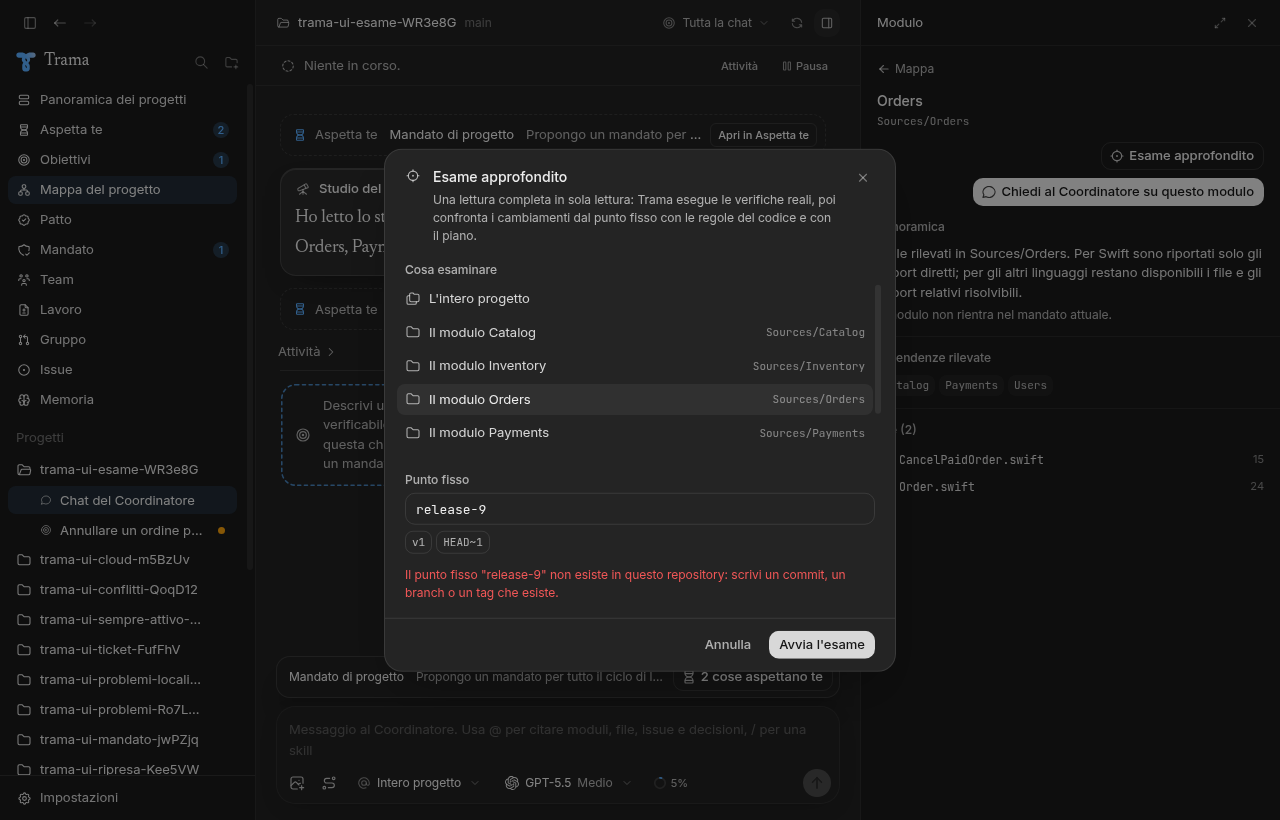
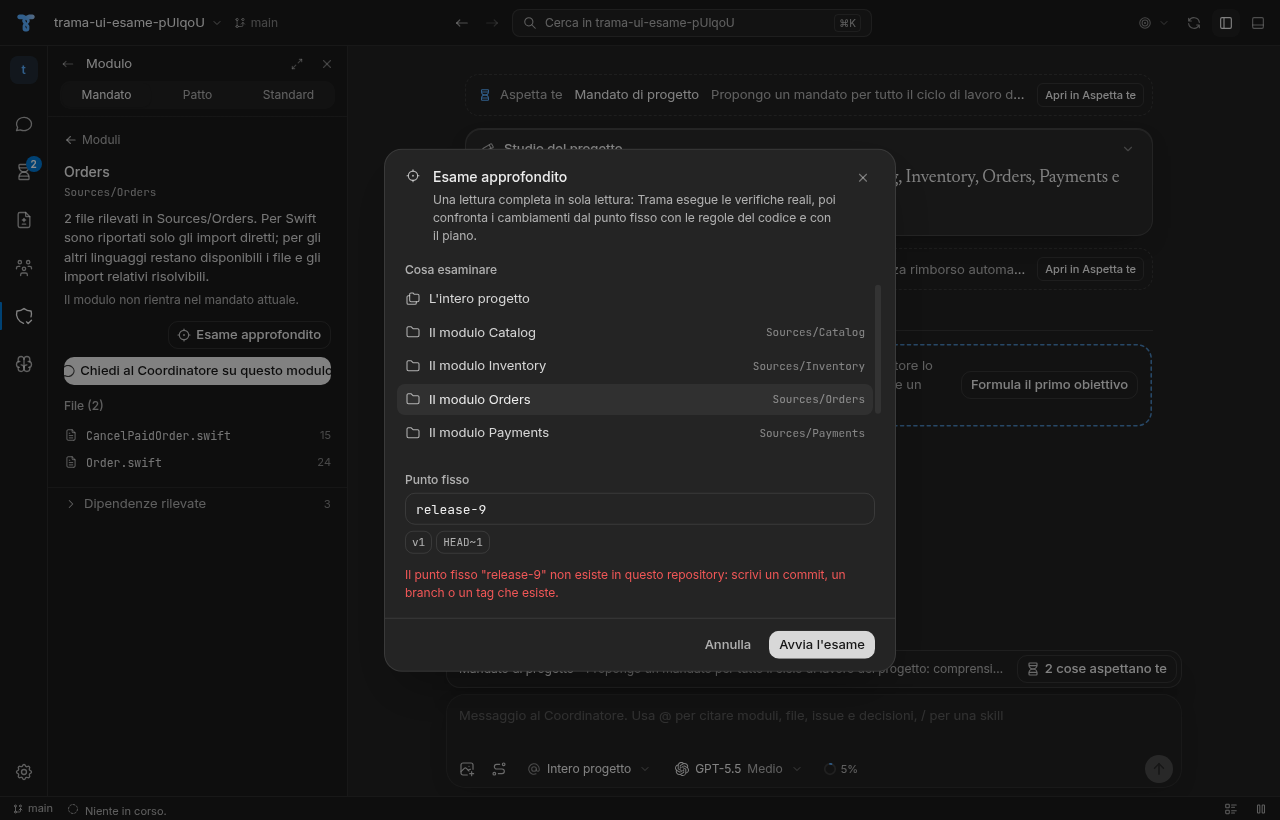
docs: refresh the focus mode screenshots inside the new window layout

diff --git a/docs/verifiche/f03-esame-a-tutto-schermo-2026-09-28.md b/docs/verifiche/f03-esame-a-tutto-schermo-2026-09-28.md
@@ -4,18 +4,18 @@ Controllo di #127 (specifica #124) sul branch `feature/issue-127-focus-mode-full
 
 ## Cosa cambia
 
-- Bersaglio e punto fisso: l'esame approfondito (la focus mode della specifica) si apre anche su un modulo o sull'intero progetto. La persona sceglie il bersaglio e scrive il punto fisso (un commit, un branch, un tag, `HEAD~5`); Trama propone i branch principali più indietro di HEAD, l'ultimo tag e qualche passo indietro. Si apre dalla Mappa ("Esame approfondito del progetto") e dalla pagina di un modulo ("Esame approfondito").
+- Bersaglio e punto fisso: l'esame approfondito (la focus mode della specifica) si apre anche su un modulo o sull'intero progetto. La persona sceglie il bersaglio e scrive il punto fisso (un commit, un branch, un tag, `HEAD~5`); Trama propone i branch principali più indietro di HEAD, l'ultimo tag e qualche passo indietro. Si apre da Regole > Mandato > Moduli ("Esame approfondito del progetto") e dalla pagina di un modulo ("Esame approfondito").
 - Passo 1 di `code-review` prima di tutto il resto: Trama risolve il punto fisso e cattura una volta `git diff <punto fisso>...HEAD`, limitato alla cartella del modulo. Un punto fisso che non esiste o un diff vuoto danno un errore chiaro nella finestra di scelta, prima di verifiche e assi. Il testo del punto fisso non può passare per un'opzione o un intervallo di git. I file sensibili restano fuori dal diff, come per un candidato.
 - Esame: le verifiche reali girano nella sandbox sul checkout del progetto, legate all'HEAD fissato (se arriva un nuovo commit l'esame si ferma e lo dice). Gli assi Standards e Spec ricevono la skill `code-review` originale e un binding di Trama per modulo o progetto, con percorso del modulo, commit e diff catturato. La Spec viene dalle issue che i messaggi dei commit citano (passo 2 della skill, prima fonte); senza una issue nota l'asse Spec si salta come dice la skill. La verifica dei rilievi (F02) funziona allo stesso modo sul checkout.
-- Vista a tutto schermo: l'esame occupa tutta la finestra, nello stile di vetro di Trama. Avanzamento a sinistra (punto fisso, verifiche reali, assi, verifica delle prove), rilievi al centro divisi per asse con il rapporto di ogni asse sotto, prova del rilievo scelto a destra (prova, come l'ha verificata Trama, cosa ha letto). Nell'intestazione "Notifiche in pausa" e le azioni a destra: "Esamina di nuovo", poi "Esci dall'esame" per ultima. Esc esce anche. Anche l'esame di un candidato si apre così; il rapporto resta riapribile nell'ispettore, con "Apri a tutto schermo".
+- Vista a tutto schermo: l'esame occupa tutta l'area dell'editor, al posto della chat, nello stile di vetro di Trama; barra delle attività, barra laterale e barra di stato restano (#350). Avanzamento a sinistra (punto fisso, verifiche reali, assi, verifica delle prove), rilievi al centro divisi per asse con il rapporto di ogni asse sotto, prova del rilievo scelto a destra (prova, come l'ha verificata Trama, cosa ha letto). Nell'intestazione "Notifiche in pausa" e le azioni a destra: "Esamina di nuovo", poi "Esci dall'esame" per ultima. Esc esce anche. Anche l'esame di un candidato si apre così; il rapporto resta riapribile nell'ispettore, con "Apri a tutto schermo".
 - Notifiche in pausa: mentre la persona è nell'esame, le notifiche di sistema di Trama aspettano. All'uscita arrivano: una così com'è, più di una in un solo riepilogo. Il lavoro autorizzato continua; cambiare progetto chiude l'esame e consegna le notifiche.
 - Testi nel catalogo delle traduzioni (#301), in italiano e in inglese, compresi gli errori del punto fisso. Glossario: "Esame approfondito" vale anche per modulo e progetto; nuova voce "Punto fisso".
 
 ## Verifiche
 
 - Test: `app/src/main/core/focusScope.test.ts` (diff dal punto fisso senza file sensibili, diff e commit limitati al modulo, punto fisso inesistente, diff vuoto anche per un modulo, testo rifiutato, proposte di punto fisso), `app/src/main/core/audit.test.ts` (un esame alla volta per bersaglio, spec dalle issue citate nei commit, binding del modulo con la skill originale, nessuna frase della skill ripetuta), `app/src/main/focusAudit.integration.test.ts` (controller reale con il server di prova: errori prima dell'avvio, esame del modulo da `HEAD~1`, verifiche sul checkout, assi nella cartella del progetto, notifiche trattenute e consegnate all'uscita, un incarico autorizzato che finisce mentre l'esame è aperto).
-- ui-check: l'esame del candidato ora si apre a tutto schermo e si chiude con "Esci dall'esame"; il nuovo passo F03 apre un progetto con un tag `v1` e un commit sul modulo Orders, prova il punto fisso inesistente e il modulo senza cambiamenti, apre l'esame del modulo e controlla le tre colonne, l'uscita a destra, la prova verificata, poi l'esame dell'intero progetto. Le tre colonne restano dentro la finestra senza scorrimento orizzontale a 1600x1000, 1280x820, 1024x700 e 720x640 (la misura minima della finestra).
-- Schermate in `docs/images/f03/`, in chiaro e in scuro. "Prima" da origin/main 7e13d3f: mappa (`mappa-prima-*`), modulo (`modulo-prima-*`), esame del candidato nell'ispettore (`esame-candidato-prima-*`). "Dopo" da questo branch riallineato con origin/main ff3d9952 (passi `31a` a `31f` di ui-check): mappa e modulo con il nuovo pulsante (`mappa-dopo-*`, `modulo-dopo-*`), errori della finestra di scelta (`punto-fisso-inesistente-*`, `diff-vuoto-*`), esame del modulo a tutto schermo alle quattro misure (`esame-modulo-<misura>-*`), esame dell'intero progetto (`esame-progetto-*`), esame del candidato a tutto schermo (`esame-candidato-dopo-*`).
+- ui-check: l'esame del candidato ora si apre a tutto schermo e si chiude con "Esci dall'esame"; il nuovo passo F03 apre un progetto con un tag `v1` e un commit sul modulo Orders, prova il punto fisso inesistente e il modulo senza cambiamenti, apre l'esame del modulo e controlla le tre colonne, la barra delle attività e la barra di stato ancora visibili, l'uscita a destra, la prova verificata, poi l'esame dell'intero progetto. Le tre colonne restano dentro la finestra senza scorrimento orizzontale a 1600x1000, 1280x820, 1024x700 e 720x640 (la misura minima della finestra).
+- Schermate in `docs/images/f03/`, in chiaro e in scuro. "Prima" da origin/main 7e13d3f: mappa (`mappa-prima-*`), modulo (`modulo-prima-*`), esame del candidato nell'ispettore (`esame-candidato-prima-*`). "Dopo" da questo branch riallineato con origin/main 0c6f8103 (con #350 e #380) (passi `31a` a `31f` di ui-check): mappa e modulo con il nuovo pulsante (`mappa-dopo-*`, `modulo-dopo-*`), errori della finestra di scelta (`punto-fisso-inesistente-*`, `diff-vuoto-*`), esame del modulo a tutto schermo alle quattro misure (`esame-modulo-<misura>-*`), esame dell'intero progetto (`esame-progetto-*`), esame del candidato a tutto schermo (`esame-candidato-dopo-*`).
 - Il progetto del test F03 e quello del passo F03 di ui-check non hanno `Package.swift`: il server di prova esegue davvero i comandi delle verifiche, e su una macchina con Swift l'esame compilerebbe il pacchetto prima di aprire gli assi (causa del timeout in CI, riprodotta con un finto `swift` lento). Per questo le schermate "dopo" mostrano solo le verifiche di git.
 
 Non verificato: un'esecuzione reale di Codex. Il server di prova non è un modello e le sue risposte non sono evidenze. Le notifiche di sistema sono provate nel controller con un host di prova, non con il centro notifiche del sistema operativo.
